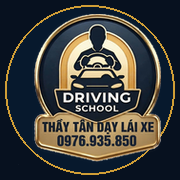
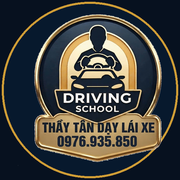
v2

diff --git a/sw.js b/sw.js
@@ -1,5 +1,5 @@
-const CACHE='sahinh-ai-pwa-v2.1.3-daily-login-20261020';
-const ASSETS=["./","./index.html","./app.css","./app.js","./apriltag-adapter.js","./manifest.json","./gas-config.js","./icon-192.png","./audio/KT/baobai.mp3","./audio/KT/batdau.mp3","./audio/KT/chuaden.mp3","./audio/KT/dung.mp3","./audio/KT/dungxe.mp3","./audio/KT/hoanthanh.mp3","./audio/KT/quagio.mp3","./audio/KT/quavitri.mp3","./audio/KT/tutdoc.mp3","./audio/THKC/THKC.mp3","./audio/THKC/saiquytrinh.mp3","./audio/b01/baobai.mp3","./audio/b01/batdau.mp3","./audio/b01/doilenh.mp3","./audio/b01/qua30s.mp3","./audio/b02/baobai.mp3","./audio/b02/batdau.mp3","./audio/b02/chuaden.mp3","./audio/b02/dung.mp3","./audio/b02/dungxe.mp3","./audio/b02/khongdung.mp3","./audio/b02/quavitri.mp3","./audio/b03/baobai.mp3","./audio/b03/batdau.mp3","./audio/b03/chuaden.mp3","./audio/b03/dung.mp3","./audio/b03/dungxe.mp3","./audio/b03/qua30s.mp3","./audio/b03/quavitri.mp3","./audio/b03/tutdoc.mp3","./audio/b04/baobai.mp3","./audio/b04/batdau.mp3","./audio/b05/baobai.mp3","./audio/b05/batdau.mp3","./audio/b06/baobai.mp3","./audio/b06/batdau.mp3","./audio/b06/quatg1.mp3","./audio/b07/baobai.mp3","./audio/b07/batdau.mp3","./audio/b08/baobai.mp3","./audio/b08/batdau.mp3","./audio/b08/chuaden.mp3","./audio/b08/dung.mp3","./audio/b08/dungxe.mp3","./audio/b08/quatg1.mp3","./audio/b08/quavitri.mp3","./audio/b09/baobai.mp3","./audio/b09/batdau.mp3","./audio/b09/chuaden.mp3","./audio/b09/dung.mp3","./audio/b09/dungxe.mp3","./audio/b09/quatg1.mp3","./audio/b09/quatg30.mp3","./audio/b09/quavitri.mp3","./audio/b09/tutdoc.mp3","./audio/b10/baobai.mp3","./audio/b10/batdau.mp3","./audio/b10/chuaden.mp3","./audio/b10/dung.mp3","./audio/b10/dungxe.mp3","./audio/b10/quagio.mp3","./audio/b10/quavitri.mp3","./audio/b10/tutdoc.mp3","./audio/b11/baobai.mp3","./audio/b11/batdau.mp3","./audio/b11/chuaden.mp3","./audio/b11/dung.mp3","./audio/b11/dungxe.mp3","./audio/b11/quagio.mp3","./audio/b11/quavitri.mp3","./audio/b11/thieutoc.mp3","./audio/b11/tutdoc.mp3","./audio/b12/baobai.mp3","./audio/b12/batdau.mp3","./audio/b12/chuaden.mp3","./audio/b12/dung.mp3","./audio/b12/dungxe.mp3","./audio/b12/quatg1.mp3","./audio/b12/quavitri.mp3","./audio/b13/baobai.mp3","./audio/b13/batdau.mp3","./audio/b13/chuaden.mp3","./audio/b13/dung.mp3","./audio/b13/dungxe.mp3","./audio/b13/quagio.mp3","./audio/b13/quavitri.mp3","./audio/b13/tutdoc.mp3","./audio/quatong.mp3","./audio/thitruot.mp3"];
+const CACHE='sahinh-ai-pwa-v2.1.4-single-device-20261020';
+const ASSETS=["./","./index.html","./app.css","./app.js","./apriltag-adapter.js","./manifest.json","./gas-config.js","./icon-192.png","./icon-512.png","./apple-touch-icon.png","./audio/KT/baobai.mp3","./audio/KT/batdau.mp3","./audio/KT/chuaden.mp3","./audio/KT/dung.mp3","./audio/KT/dungxe.mp3","./audio/KT/hoanthanh.mp3","./audio/KT/quagio.mp3","./audio/KT/quavitri.mp3","./audio/KT/tutdoc.mp3","./audio/THKC/THKC.mp3","./audio/THKC/saiquytrinh.mp3","./audio/b01/baobai.mp3","./audio/b01/batdau.mp3","./audio/b01/doilenh.mp3","./audio/b01/qua30s.mp3","./audio/b02/baobai.mp3","./audio/b02/batdau.mp3","./audio/b02/chuaden.mp3","./audio/b02/dung.mp3","./audio/b02/dungxe.mp3","./audio/b02/khongdung.mp3","./audio/b02/quavitri.mp3","./audio/b03/baobai.mp3","./audio/b03/batdau.mp3","./audio/b03/chuaden.mp3","./audio/b03/dung.mp3","./audio/b03/dungxe.mp3","./audio/b03/qua30s.mp3","./audio/b03/quavitri.mp3","./audio/b03/tutdoc.mp3","./audio/b04/baobai.mp3","./audio/b04/batdau.mp3","./audio/b05/baobai.mp3","./audio/b05/batdau.mp3","./audio/b06/baobai.mp3","./audio/b06/batdau.mp3","./audio/b06/quatg1.mp3","./audio/b07/baobai.mp3","./audio/b07/batdau.mp3","./audio/b08/baobai.mp3","./audio/b08/batdau.mp3","./audio/b08/chuaden.mp3","./audio/b08/dung.mp3","./audio/b08/dungxe.mp3","./audio/b08/quatg1.mp3","./audio/b08/quavitri.mp3","./audio/b09/baobai.mp3","./audio/b09/batdau.mp3","./audio/b09/chuaden.mp3","./audio/b09/dung.mp3","./audio/b09/dungxe.mp3","./audio/b09/quatg1.mp3","./audio/b09/quatg30.mp3","./audio/b09/quavitri.mp3","./audio/b09/tutdoc.mp3","./audio/b10/baobai.mp3","./audio/b10/batdau.mp3","./audio/b10/chuaden.mp3","./audio/b10/dung.mp3","./audio/b10/dungxe.mp3","./audio/b10/quagio.mp3","./audio/b10/quavitri.mp3","./audio/b10/tutdoc.mp3","./audio/b11/baobai.mp3","./audio/b11/batdau.mp3","./audio/b11/chuaden.mp3","./audio/b11/dung.mp3","./audio/b11/dungxe.mp3","./audio/b11/quagio.mp3","./audio/b11/quavitri.mp3","./audio/b11/thieutoc.mp3","./audio/b11/tutdoc.mp3","./audio/b12/baobai.mp3","./audio/b12/batdau.mp3","./audio/b12/chuaden.mp3","./audio/b12/dung.mp3","./audio/b12/dungxe.mp3","./audio/b12/quatg1.mp3","./audio/b12/quavitri.mp3","./audio/b13/baobai.mp3","./audio/b13/batdau.mp3","./audio/b13/chuaden.mp3","./audio/b13/dung.mp3","./audio/b13/dungxe.mp3","./audio/b13/quagio.mp3","./audio/b13/quavitri.mp3","./audio/b13/tutdoc.mp3","./audio/quatong.mp3","./audio/thitruot.mp3"];
 self.addEventListener('install',e=>e.waitUntil(caches.open(CACHE).then(c=>Promise.all(ASSETS.map(u=>c.add(u).catch(err=>{console.warn('CACHE_SKIP',u,err);})))).then(()=>self.skipWaiting())));
 self.addEventListener('activate',e=>e.waitUntil(caches.keys().then(keys=>Promise.all(keys.filter(k=>k!==CACHE).map(k=>caches.delete(k)))).then(()=>self.clients.claim())));
 self.addEventListener('fetch',e=>{

diff --git a/index.html b/index.html
@@ -1,4 +1,4 @@
-<!doctype html><html lang="vi"><head><meta charset="utf-8"><meta name="viewport" content="width=device-width,initial-scale=1,viewport-fit=cover,user-scalable=no"><meta name="theme-color" content="#0b7cff"><meta name="mobile-web-app-capable" content="yes"><link rel="manifest" href="./manifest.json"><link rel="icon" href="./icon-192.png"><link rel="stylesheet" href="./app.css"><title>Sa Hình AI</title>
+<!doctype html><html lang="vi"><head><meta charset="utf-8"><meta name="viewport" content="width=device-width,initial-scale=1,viewport-fit=cover,user-scalable=no"><meta name="theme-color" content="#0b7cff"><meta name="mobile-web-app-capable" content="yes"><link rel="manifest" href="./manifest.json"><link rel="icon" type="image/png" sizes="192x192" href="./icon-192.png"><link rel="apple-touch-icon" sizes="180x180" href="./apple-touch-icon.png"><link rel="stylesheet" href="./app.css"><title>Sa Hình AI</title>
 <script src="https://unpkg.com/js-aruco2@2.0.0/src/cv.js"></script><script src="https://unpkg.com/js-aruco2@2.0.0/src/aruco.js"></script><script src="https://unpkg.com/js-aruco2@2.0.0/src/dictionaries/apriltag_36h11.js"></script></head><body>
 <div id="loginOverlay"><form class="login-card" id="teacherLoginForm"><input id="loginUser" autocomplete="username" placeholder="Tài khoản giáo viên" aria-label="Tài khoản giáo viên" required><input id="loginPass" type="password" autocomplete="current-password" placeholder="Mật khẩu" aria-label="Mật khẩu" required><button class="login-btn" id="loginBtn" type="submit">ĐĂNG NHẬP</button><div id="loginError" class="login-error" role="alert"></div></form></div>
 <header><b>SA HÌNH AI</b><span id="net">● OFFLINE</span><span id="appVersionBadge">V2.1.2-DAILY-LOGIN</span></header>

diff --git a/ICON_RESTORE_NOTES.md b/ICON_RESTORE_NOTES.md
@@ -1,0 +1,3 @@
+Sa Hình AI V2.1.3 — khôi phục icon đã xác nhận.
+
+Dùng icon thương hiệu Thầy Tân Dạy Lái Xe hiện có trong gói (icon-512.png) làm nguồn chuẩn, đồng bộ icon-192.png và apple-touch-icon.png; manifest và favicon khai báo rõ kích thước; đổi tên cache Service Worker để trình duyệt nhận icon mới. Không sửa app.js hoặc logic đăng nhập/thi.
